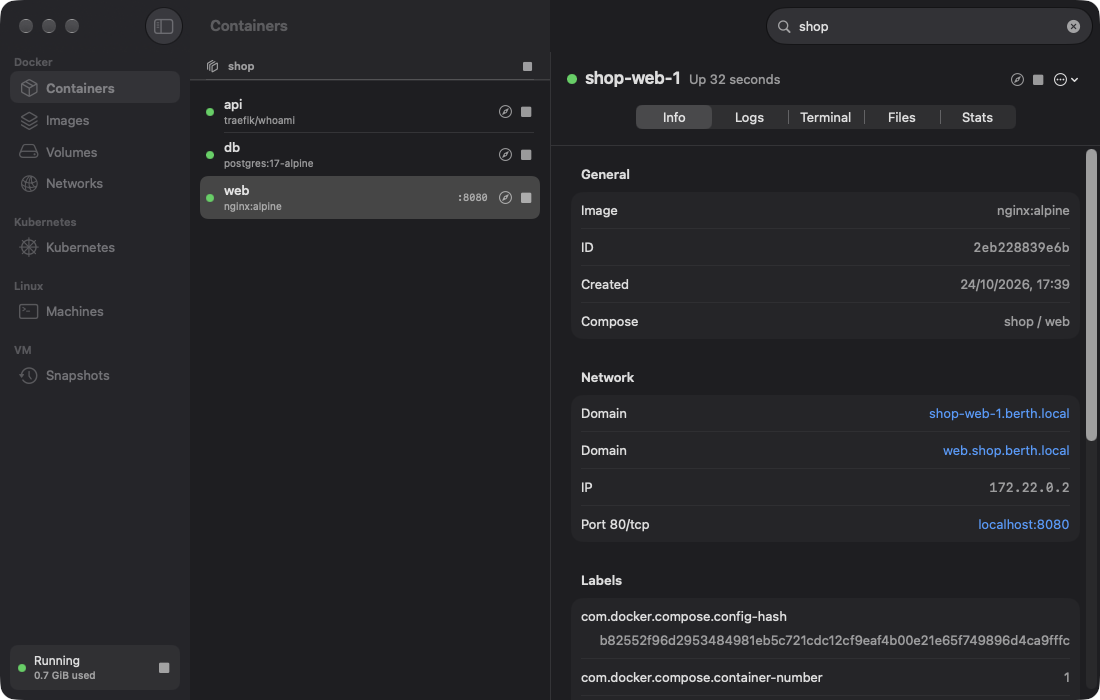
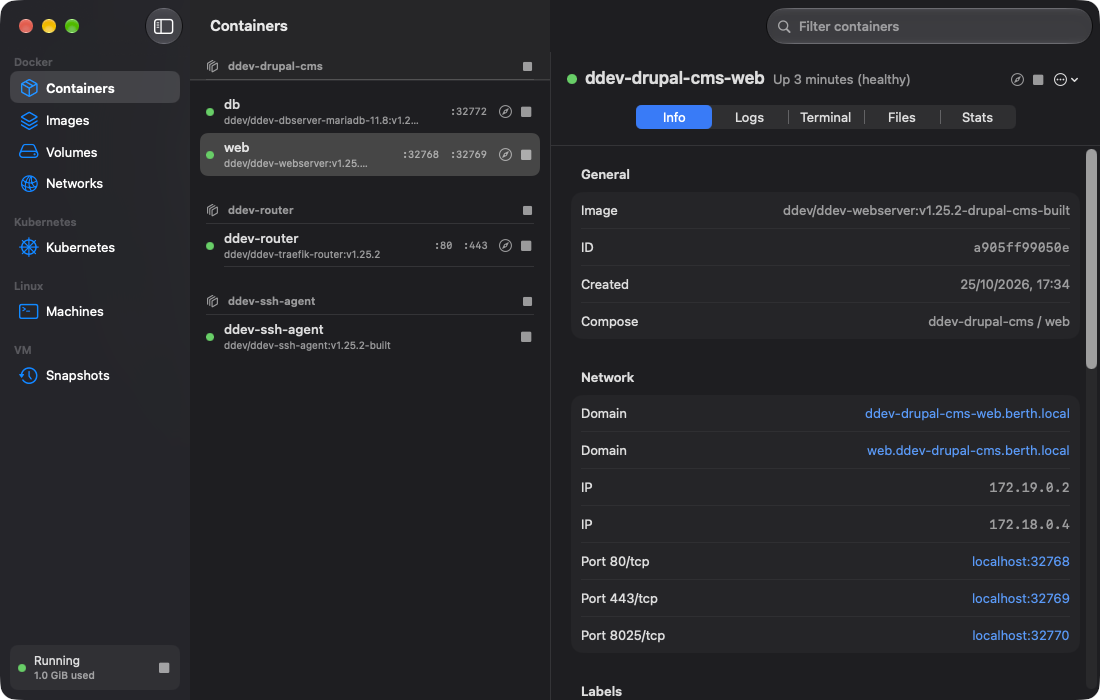
README: performance against OrbStack, DDEV + Drupal example
- Performance section from a fresh run of bench/compare.sh,
  workloads.sh and ddev-drupal.sh, each engine alone, DDEV alternated
  between engines (bench/results/2026-10-25-1741.md, -showcase.md).
- Example: Drupal CMS with DDEV on bind mounts, with a screenshot of the
  site; the container screenshots now show its containers (the logs one
  also showed the old 6.12 kernel).
- Machine screenshots retaken without the author's username.
- "Why": what the keynote was about.

diff --git a/README.md b/README.md
@@ -5,8 +5,9 @@ spirit of OrbStack. Written in Rust on top of Apple's Virtualization.framework.
 
 ## Why
 
-berth is highly inspired by DHH's talk about rewriting any app with AI and Rust.
-OrbStack is a great piece of software, but it's closed source, so I wanted to see
+berth is inspired by DHH's Rails World 2026 keynote, where he described
+37signals rebuilding HEY on a Rust backend, with AI agents writing the code
+and people specifying and reviewing it. OrbStack is a great piece of software, but it's closed source, so I wanted to see
 how far an open-source take on the same idea could go: built with AI assistance,
 written in Rust, and matching OrbStack's behavior from the outside rather than
 from its code.
@@ -67,6 +68,81 @@ berth import orbstack                   # or docker-desktop: images, volumes, ne
 berth snapshot create before-upgrade    # the whole VM, instantly; berth snapshot restore before-upgrade
 berth config set memory_mib 8192        # settings (also in the app); berth restart applies them
 ```
+
+### Example: Drupal CMS with DDEV
+
+DDEV works as it does on OrbStack, with the project folder bind-mounted from
+the Mac. berth's file sharing is fast enough that DDEV doesn't need Mutagen:
+
+```sh
+mkdir drupal-cms && cd drupal-cms
+ddev config --project-type=drupal11 --docroot=web
+printf 'performance_mode: none\n' > .ddev/config.local.yaml   # survives Drupal CMS's own config
+ddev start
+ddev composer create-project drupal/cms
+ddev drush site:install --yes
+open http://drupal-cms.ddev.site
+```
+
+![Drupal CMS served by DDEV on berth](docs/images/drupal-site.png)
+
+The project's containers show up in the app, grouped by project (see
+[In pictures](#in-pictures)). How fast this runs next to OrbStack is under
+[Performance](#performance).
+
+## Performance
+
+berth against OrbStack 2.2.5 on the same Mac (M2 Max, 32 GiB, macOS 27),
+each engine running alone, measured on 2026-10-25. Ranges are over several
+runs; **bold** marks a clear win.
+
+**Engine**
+
+| | berth | OrbStack |
+|---|---|---|
+| Start, stopped → Docker ready | **2.9–3.2 s** | 2.2–6.4 s |
+| Idle CPU (VM, 60 s average) | **1.9 %** | 2.3 % |
+| Mac memory after a 4 GiB container workload | **+2.2 GB** | +3.8 GB |
+| `docker run` overhead (mean of 10) | 0.34 s | **0.25 s** |
+| DNS lookup from a container | **0.75 ms** | 0.95 ms |
+
+**DDEV + Drupal CMS** (39k files on a bind mount, no Mutagen)
+
+| | berth | OrbStack |
+|---|---|---|
+| `ddev composer create-project` | 12.2–12.8 s | 11.1–11.5 s |
+| `ddev composer install` | 7.3–7.5 s | 6.5–7.4 s |
+| `ddev drush site:install` | 36.4–43.1 s | 36.2–45.4 s |
+| First page after restart | 1.9–2.4 s | 1.9–2.1 s |
+| Page, warm | 16–18 ms | 13–15 ms |
+
+**File sharing** (bind mount from the Mac, 20,000 × 1 KB files)
+
+| | berth | OrbStack | Apple's virtiofs |
+|---|---|---|---|
+| Extract | 2.3–2.6 s | 2.1–2.3 s | 7.5–7.9 s |
+| Read all | 0.6–1.0 s | 0.6–0.8 s | |
+| Delete | 1.4–1.8 s | 1.2–1.4 s | |
+
+**Network**
+
+| | berth | OrbStack |
+|---|---|---|
+| Download via a container's domain | **44.7 Gbit/s** | 30.0 Gbit/s |
+| Download via a published localhost port | 24.1 Gbit/s | **29.4 Gbit/s** |
+| Mac → container (`host.docker.internal`) | 25.8 Gbit/s | **30.1 Gbit/s** |
+| `docker build`, 5k-file context | 3.8 s | **2.6 s** |
+
+In short: berth starts faster, idles lighter and keeps less memory after a
+heavy workload. Real projects such as DDEV and Drupal run at about the same
+speed on both. OrbStack is still ahead on raw file I/O (1.2–1.6x), on
+`docker build` context uploads and on starting a container. Apple's own
+file sharing, which berth uses before macOS 27, is ~3x slower than both.
+
+Every number comes from scripts in `bench/` and is recorded in
+`bench/results/` (this run: `2026-10-25-1741.md` and
+`2026-10-25-showcase.md`), with the dead ends in `docs/LEARNINGS.md`.
+Memory figures are system-wide and move by a few hundred MB with other apps.
 
 ## Features
 
@@ -267,8 +343,8 @@ its own. Closing the window keeps it in the menu bar.
 
 ### In pictures
 
-Containers are grouped by Compose project. Each one shows its domains, IP and
-ports. The ports and domains are links.
+Containers are grouped by Compose project, here the DDEV example above. Each
+one shows its domains, IPs and ports. The ports and domains are links.
 
 ![Container info](docs/images/container-info.png)
 

diff --git a/bench/results/2026-10-25-showcase.md b/bench/results/2026-10-25-showcase.md
@@ -1,0 +1,44 @@
+# berth vs OrbStack for the README: 2026-10-25
+
+Apple M2 Max, 32 GiB, macOS 27.0.1; berth fa78d7e (kernel 7.2.12-berth,
+polling driver), OrbStack 2.2.5, DDEV 1.25.2, Drupal CMS (38,965 files).
+Each engine alone, the other stopped. `bench/compare.sh` (in
+`2026-10-25-1741.md`), then `bench/workloads.sh` and `bench/ddev-drupal.sh`
+on each engine, then two more DDEV runs per engine, alternating engines.
+
+## Everyday workloads (`workloads.sh`)
+
+| Workload | berth | OrbStack |
+|---|---|---|
+| container run (mean of 10) | 0.34 s | **0.25 s** |
+| Mac -> container, 2 GiB via host.docker.internal | 25.8 Gbit/s | **30.1 Gbit/s** |
+| container -> Mac, 1 GiB POST | 13.8 Gbit/s | **25.8 Gbit/s** |
+| internet download, 100 MB | 114 Mbit/s | 104 Mbit/s |
+| DNS lookup, mean of 200 | **0.75 ms** | 0.95 ms |
+| pull node:22-alpine | 4.01 s | 3.99 s |
+| docker build, 5k-file context | 3.78 s | **2.64 s** |
+| volume write 1 GiB (fsync) | 1296 MB/s | 1264 MB/s |
+| volume read 1 GiB (cold) | 7314 MB/s | 6827 MB/s |
+| volume, 20k small files | 0.21 s | 0.17 s |
+
+container -> Mac was 18–28 Gbit/s on berth in earlier runs
+(`2026-10-24-workloads.md`); this direction varies from run to run.
+
+## DDEV + Drupal CMS (`ddev-drupal.sh`, bind mounts, no Mutagen)
+
+| | ddev start | create-project | composer install | drush site:install | first page | warm page | restart |
+|---|---|---|---|---|---|---|---|
+| berth, run 1 | 12.9 s | 12.5 s | 7.4 s | 39.7 s | 2364 ms | 16 ms | 22.8 s |
+| berth, run 2 | 14.1 s | 12.2 s | 7.5 s | 43.1 s | 1910 ms | 18 ms | 22.0 s |
+| berth, run 3 | 14.5 s | 12.8 s | 7.3 s | 36.4 s | 2427 ms | 18 ms | 24.1 s |
+| OrbStack, run 1 | 13.0 s | 11.3 s | 7.0 s | 37.8 s | 1991 ms | 13 ms | 21.0 s |
+| OrbStack, run 2 | 8.8 s | 11.3 s | 7.2 s | 45.4 s | 2060 ms | 499 ms | 21.2 s |
+| OrbStack, run 3 | 12.3 s | 11.1 s | 7.4 s | 41.9 s | 1926 ms | 15 ms | 24.0 s |
+| OrbStack, run 4 | 12.8 s | 11.5 s | 6.5 s | 36.2 s | 1956 ms | 13 ms | 21.4 s |
+
+- One more berth run in the first batch stopped without output (the
+  script exits on any failed step and its output was discarded); the next
+  two, with every step logged, completed. Not reproduced.
+- OrbStack's run 2 warm page (499 ms) is an outlier: its other runs were
+  13–15 ms.
+- `drush site:install` varies by ~7 s between runs on both engines.

diff --git a/bench/results/2026-10-25-1741.md b/bench/results/2026-10-25-1741.md
@@ -1,0 +1,21 @@
+# berth vs OrbStack — 2026-10-25 17:55
+
+Apple M2 Max, 32 GiB, macOS 27.0.1.
+berth fa78d7e; OrbStack 2.2.5.
+
+| Test | berth | OrbStack |
+|---|---|---|
+| Startup, stopped → Docker ready (3 runs) | 3.17 2.86 2.93 s | 6.35 5.28 2.24 s |
+| Containers already running during idle test | 0 | 0 |
+| Idle CPU (VM processes, avg over 60 s) | 1.85 % | 2.27 % |
+| Idle host memory (system-wide, over stopped) | +2064 MB | +2454 MB |
+| 4 GiB anonymous: peak / after exit / +30 s / +60 s / +120 s | +2497 / +2190 / +2111 / +2090 / +2647 MB | +3854 / +3848 / +3877 / +4126 / +4142 MB |
+| 4 GiB page cache: after / +60 s / +120 s | +3170 / +3610 / +3398 MB | +4543 / +4919 / +4864 MB |
+| Container run overhead (alpine true) | 0.33 s | 0.38 s |
+| Bind mount: extract 20,000 × 1 KB files | 2.63 s | 2.25 s |
+| Bind mount: read all 20,000 files | 0.96 s | 0.82 s |
+| Bind mount: delete 20,000 files | 1.81 s | 1.43 s |
+| Bind mount: write 1 GiB (fsync) | 1.03 s | 0.67 s |
+| Bind mount: read 1 GiB | 0.88 s | 0.55 s |
+| Download 1 GiB via localhost port forward | 24.07 Gbit/s | 29.38 Gbit/s |
+| Download 1 GiB via container domain | 44.69 Gbit/s | 30.02 Gbit/s |

diff --git a/CHANGELOG.md b/CHANGELOG.md
@@ -6,6 +6,9 @@ are in the commit messages.
 ## Unreleased
 
 ### 2026-10-25
+- **README:** a Performance section from a fresh run against OrbStack
+  (`bench/results/2026-10-25-showcase.md`), a DDEV + Drupal CMS example,
+  screenshots retaken with the example.
 - **Fixes:** disks under `/Volumes` no longer share file IDs (two disks'
   root folders were both inode 2); a stop during boot no longer counts as a
   failed kernel start; a rebuilt kernel is tried again after an earlier one
